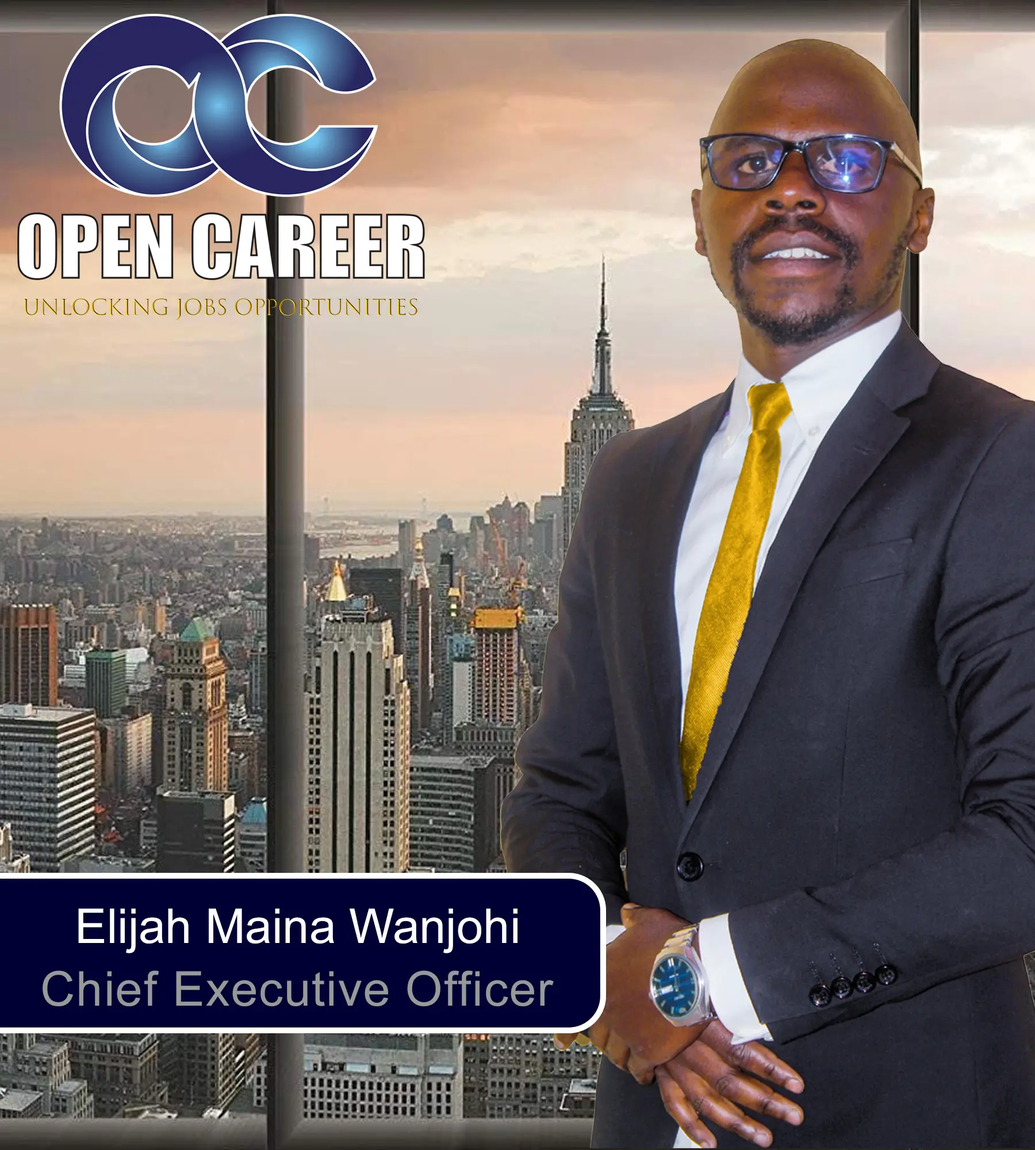
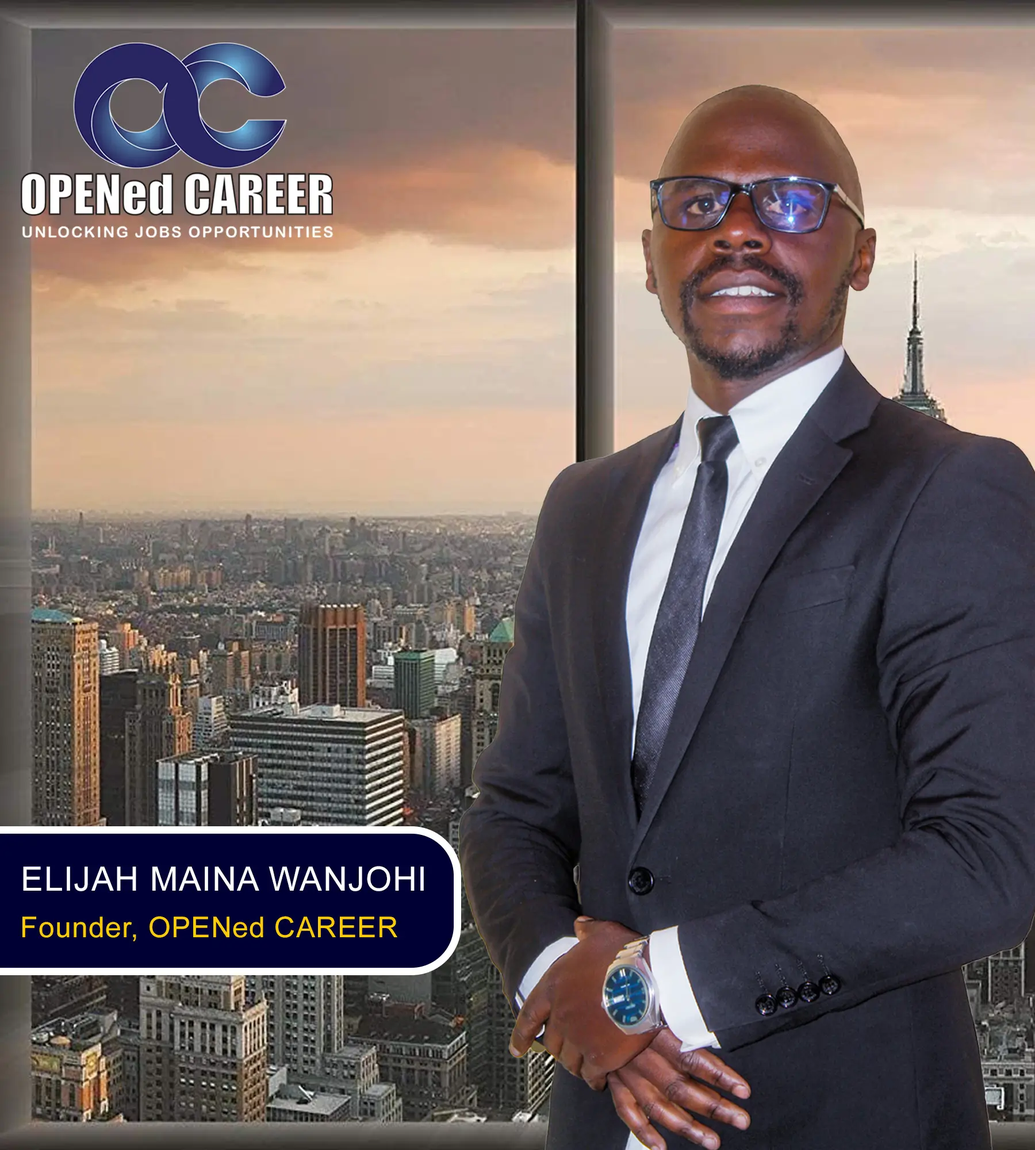
added images, disclaimer page and changed the name

diff --git a/frontend/src/layouts/articles/Post.jsx b/frontend/src/layouts/articles/Post.jsx
@@ -34,12 +34,13 @@ function Post() {
         const currentPageUrl = window.location.href;
 
         // Customize the font
+        const assistTitle = 'OPENed CAREER';
         const boldArticleHeader = `*${articleHeader}*`;
         const assistText = 'Explore more content and requirements by following the link below:';
         const boldAssistText = `*${assistText}*`;
 
         // Encode the article information for the URL
-        const encodedArticle = encodeURIComponent(boldArticleHeader + '\n\n' + articleContent + '\n\n' + boldAssistText + '\n' + currentPageUrl);
+        const encodedArticle = encodeURIComponent(assistTitle + '\n\n' + boldArticleHeader + '\n\n' + articleContent + '\n\n' + boldAssistText + '\n' + currentPageUrl);
 
         // Generate the WhatsApp share URL
         const whatsappUrl = 'https://wa.me/?text=' + encodedArticle;
@@ -52,12 +53,13 @@ function Post() {
         // Get the article header and content
         const articleHeader = document.getElementById('articleHeader').innerText;
         const articleContent = document.getElementById('articleContent').innerText;
+        const assistTitle = 'OPENed CAREER';
 
         // Get the current page URL
         const currentPageUrl = window.location.href;
 
         // Encode the article information for the URL
-        const encodedArticle = encodeURIComponent(articleHeader + '\n\n' + articleContent + '\n\n' + currentPageUrl);
+        const encodedArticle = encodeURIComponent(assistTitle + '\n\n' + articleHeader + '\n\n' + articleContent + '\n\n' + currentPageUrl);
     
         // Generate the Facebook share URL
         const facebookUrl = 'https://www.facebook.com/sharer/sharer.php?u=' + currentPageUrl + '&quote=' + encodedArticle;
@@ -95,7 +97,7 @@ function Post() {
                     <>
                         {article &&  (
                             <div className="max-w-2xl mx-auto mb-12 border-t-4 xl:border-t-0 xl:border-l-4 even:border-gold odd:border-primary py-6 px-8 rounded-3xl shadow-2xl">
-                                <div className="my-2 px-6 py-12 rounded-3xl bg-center bg-cover shadow-2xl relative" style={{backgroundImage: `url(${article.image})`,}} alt="Opportunities Meet Aspirations" title='Kenya Jobs | Open Career'>
+                                <div className="my-2 px-6 py-24 rounded-3xl bg-center bg-cover shadow-2xl relative" style={{backgroundImage: `url(${article.image})`,}} alt="Opportunities Meet Aspirations" title='Kenya Jobs | Opened Career'>
                                     <div className="rounded-3xl absolute top-0 left-0 w-[100%] h-[100%]" style={customStyle2}></div>
                                     <div className="relative z-10">
                                         <h2 id='articleHeader' className="text-whity text-2xl font-semibold">{article.title}</h2>
@@ -161,7 +163,7 @@ function Post() {
             {/* Welcome */}
             <section className="py-8">
                 <div className="max-w-2xl text-whity grad-to-br rounded-3xl py-6 px-6 sm:px-12 shadow-2xl mt-4 xl:mt-0">
-                    <h1 className="text-xl py-4 font-semibold text-center">Welcome to <span className="italic text-whity">Open Career</span></h1>
+                    <h1 className="text-xl py-4 font-semibold text-center">Welcome to <span className="italic text-whity">Opened Career</span></h1>
                 </div>
             </section>
 
@@ -174,7 +176,7 @@ function Post() {
                         </div>
                         <div className="py-4 text-secondary text-justify">
                             <p className="text-sm">
-                                At Open Career, we prioritize inclusivity, diversity, and equal opportunities 
+                                At Opened Career, we prioritize inclusivity, diversity, and equal opportunities 
                                 for all individuals, regardless of their backgrounds or experiences. 
                                 We believe in creating a level playing field where every candidate has the 
                                 chance to showcase their skills and potential, and every employer has access to a 

diff --git a/frontend/src/layouts/landing/Posts.jsx b/frontend/src/layouts/landing/Posts.jsx
@@ -86,12 +86,13 @@ function Posts() {
         const currentPageUrl = window.location.href;
 
         // Customize the font
+        const assistTitle = 'OPENed CAREER';
         const boldArticleHeader = `*${articleHeader}*`;
         const assistText = 'Explore more content and requirements by following the link below:';
         const boldAssistText = `*${assistText}*`;
 
         // Encode the article information for the URL
-        const encodedArticle = encodeURIComponent(boldArticleHeader + '\n\n' + articleContent + '\n\n' + boldAssistText + '\n' + currentPageUrl);
+        const encodedArticle = encodeURIComponent(assistTitle + '\n\n' + boldArticleHeader + '\n\n' + articleContent + '\n\n' + boldAssistText + '\n' + currentPageUrl);
 
         // Generate the WhatsApp share URL
         const whatsappUrl = 'https://wa.me/?text=' + encodedArticle;
@@ -104,12 +105,13 @@ function Posts() {
         // Get the article header and content
         const articleHeader = document.getElementById('articleHeader').innerText;
         const articleContent = document.getElementById('articleContent').innerText;
+        const assistTitle = 'OPENed CAREER';
 
         // Get the current page URL
         const currentPageUrl = window.location.href;
 
         // Encode the article information for the URL
-        const encodedArticle = encodeURIComponent(articleHeader + '\n\n' + articleContent + '\n\n' + currentPageUrl);
+        const encodedArticle = encodeURIComponent(assistTitle + '\n\n' + articleHeader + '\n\n' + articleContent + '\n\n' + currentPageUrl);
     
         // Generate the Facebook share URL
         const facebookUrl = 'https://www.facebook.com/sharer/sharer.php?u=' + currentPageUrl + '&quote=' + encodedArticle;
@@ -152,7 +154,7 @@ function Posts() {
                     {articles.slice().reverse().slice(0, 4).map((article) => (
                         <div className="py-3" key={article.id}>
                             <Link to={`/${article.id}`} onClick={scrollToArticleSection} className="flex items-center space-x-4 shadow-2xl rounded-3xl">
-                                <div className="px-14 py-20 sm:p-20 rounded-s-3xl bg-center bg-cover shadow-2xl" style={{backgroundImage: `url(${article.image})`,}}>
+                                <div className="px-14 py-20 sm:p-20 rounded-s-3xl bg-center bg-cover shadow-2xl" style={{backgroundImage: `url(${article.image})`,}} alt="Opportunities Meet Aspirations" title='Kenya Jobs | Opened Career'>
                                 </div>
                                 <div className="flex flex-col justify-evenly">
                                     <div>
@@ -187,7 +189,7 @@ function Posts() {
                     <>
                         {article && (
                             <div className="max-w-xl mx-auto mb-12 border-t-4 xl:border-t-0 xl:border-l-4 even:border-gold odd:border-primary py-6 px-8 rounded-3xl shadow-2xl">
-                                <div className="my-2 px-6 py-12 rounded-3xl bg-center bg-cover shadow-2xl relative" style={{backgroundImage: `url(${article.image})`,}} alt="Opportunities Meet Aspirations" title='Kenya Jobs | Open Jobs'>
+                                <div className="my-2 px-6 py-24 rounded-3xl bg-center bg-cover shadow-2xl relative" style={{backgroundImage: `url(${article.image})`,}} alt="Opportunities Meet Aspirations" title='Kenya Jobs | Opened Career'>
                                     <div className="rounded-3xl absolute top-0 left-0 w-[100%] h-[100%]" style={customStyle2}></div>
                                     <div className='relative z-10'>
                                         <h2 id='articleHeader' className="text-whity text-2xl font-semibold">{article.title}</h2>

diff --git a/frontend/src/layouts/disclaimer/Header.jsx b/frontend/src/layouts/disclaimer/Header.jsx
@@ -1,0 +1,60 @@
+import React from 'react'
+
+const Header = () => {
+  return (
+    <>
+      <section>
+        <div className="my-4 py-8 grad-to-br rounded-full">
+          <div className="text-center">
+            <h3 className="text-whity font-semibold text-2xl">Disclaimer Page</h3>
+          </div>
+        </div>
+      </section>
+
+      <section className="py-8">
+        <div className="bg-whity rounded-3xl shadow-2xl p-4 sm:px-8">
+          <div>
+            <div className="flex justify-start px-8 md:px-16">
+              <h1 className="-mt-12 text-2xl text-secondary italic py-4 px-6 font-semibold bg-whity rounded-3xl shadow-2xl">Disclaimer</h1>
+            </div>
+
+            <div className="py-4 text-secondary text-justify text-sm md:text-base">
+              <p className="italic py-2">
+                Openedcareer.com is a platform designed to connect job seekers with potential employers. While we strive to provide accurate 
+                and up-to-date information, we do not guarantee the completeness, reliability, or suitability of the job listings, company profiles, 
+                or any other content posted on our website. <br /><br />
+
+                We urge users to exercise caution and conduct their own research before applying for any 
+                job or engaging with any employer listed on Openedcareer.com. We do not endorse any specific employers or job opportunities and 
+                disclaim any liability for any damages or losses incurred as a result of reliance on information provided on our platform. <br /><br />
+                
+                Additionally, Openedcareer.com does not take responsibility for the accuracy or legality of job postings, nor do we verify the identity 
+                of employers or the validity of their offers. Users are advised to verify the legitimacy of any job opportunity and to use their own 
+                judgment when interacting with potential employers. <br /><br />
+                
+                Furthermore, Openedcareer.com is not involved in the actual transaction between employers and job seekers and cannot guarantee the outcome 
+                of any job application or employment arrangement facilitated through our platform. <br /><br />
+                
+                By using Openedcareer.com, users agree to hold harmless and indemnify Openedcareer.com and its affiliates, officers, directors, employees, 
+                and agents from any claims, liabilities, or damages arising from the use of our services. <br /><br />
+                
+                We reserve the right to modify, update, or remove any content on our website without prior notice. Users are encouraged to review our terms 
+                of service and privacy policy regularly for any changes. <br /><br />
+                
+                If you have any concerns about the accuracy or legitimacy of any content on Openedcareer.com, please contact us immediately at [contact email/phone number]. <br /><br />
+                
+                Thank you for using Openedcareer.com. We wish you success in your job search endeavors. <br /><br />
+                
+                <span className='font-semibold'>Message from our CEO</span> <br />
+                It really hurts when seeing young individuals struggling to find job. It’s my prayer that you finds the right job soon
+              </p>
+              
+            </div>
+          </div>
+        </div>
+      </section>
+    </>
+  )
+}
+
+export default Header

diff --git a/frontend/src/layouts/landing/Header.jsx b/frontend/src/layouts/landing/Header.jsx
@@ -1,8 +1,8 @@
 import React, { useState, useEffect  } from 'react';
 import { Link } from 'react-router-dom';
 
-import hero5 from '../../assets/images/hero1.webp'
-import hero1 from '../../assets/images/hero4.webp'
+import hero1 from '../../assets/images/hero-1.webp'
+import hero2 from '../../assets/images/hero-2.webp'
 
 function Header() {
 
@@ -42,8 +42,8 @@ function Header() {
             {/* Left */}
             <div className="flex flex-col space-y-4">
                 <div className="grid grid-cols-2 gap-4">
-                    <div className='py-24 sm:py-36 md:py-48 rounded-3xl shadow-2xl bg-center bg-cover' style={{backgroundImage: `url(${hero5})`}} alt="Opportunities Meet Aspirations" title='Kenya Jobs | Open Career'></div>
-                    <div className='py-24 sm:py-36 md:py-48 rounded-3xl shadow-2xl bg-center bg-cover' style={{backgroundImage: `url(${hero1})`}} alt="Opportunities Meet Aspirations" title='Kenya Jobs | Open Career'></div>
+                    <div className='py-24 sm:py-36 md:py-48 rounded-3xl shadow-2xl bg-center bg-cover' style={{backgroundImage: `url(${hero1})`}} alt="Opportunities Meet Aspirations" title='Kenya Jobs | Opened Career'></div>
+                    <div className='py-24 sm:py-36 md:py-48 rounded-3xl shadow-2xl bg-center bg-cover' style={{backgroundImage: `url(${hero2})`}} alt="Opportunities Meet Aspirations" title='Kenya Jobs | Opened Career'></div>
                 </div>
                 <div className="grad-to-br rounded-3xl py-6 px-6 sm:px-8 shadow-2xl">
                     <p className="text-whity text-sm md:text-base">
@@ -79,7 +79,7 @@ function Header() {
                             {displayedArticles.map((article) => (
                                 <div className="py-1 hover:underline" key={article.id}>
                                     <Link to={`/article/${article.id}`} className="flex items-center justify-start space-x-4">
-                                        <div className="p-12 sm:p-10 rounded-full bg-center bg-cover shadow-2xl transition duration-200 transform hover:scale-110" style={{backgroundImage: `url(${article.image})`,}} alt="Opportunities Meet Aspirations" title='Kenya Jobs | Open Career'>
+                                        <div className="p-12 sm:p-10 rounded-full bg-center bg-cover shadow-2xl transition duration-200 transform hover:scale-110" style={{backgroundImage: `url(${article.image})`,}} alt="Opportunities Meet Aspirations" title='Kenya Jobs | Opened Career'>
                                         </div>
                                         <div className="flex flex-col justify-between">
                                             <h6 className="text-secondary font-semibold text-lg">{article.title}</h6>

diff --git a/frontend/src/layouts/conditions/Header.jsx b/frontend/src/layouts/conditions/Header.jsx
@@ -24,10 +24,10 @@ const Header = () => {
                 <div className='py-2'>
                   <li className='font-medium'>Overview</li>
                   <p className="italic py-2">
-                    These terms and conditions outline the rules and regulations for the use of open Job Website,
-                    located at https://opencareer.com. <br /><br />
+                    These terms and conditions outline the rules and regulations for the use of opened Job Website,
+                    located at https://openedcareer.com. <br /><br />
                     By accessing this website we assume you accept these terms and conditions. Do not continue to
-                    use open career website if you do not agree to take all of the terms and conditions stated on this page.
+                    use opened career website if you do not agree to take all of the terms and conditions stated on this page.
                     Our Terms and Conditions were created with the help of the Terms And Conditions Generator and
                     the Free Terms & Conditions Generator.
                   </p>
@@ -68,7 +68,7 @@ const Header = () => {
                     Override any security feature or bypass or circumvent any access controls or use limits of the
                     Service (such as caps on keyword searches or profile views); <br /><br />
                     Copy, use, disclose or distribute any information obtained from the Services, whether directly or
-                    through third parties (such as search engines), without the consent of open career
+                    through third parties (such as search engines), without the consent of opened career
                   </p>
                 </div>
 
@@ -107,7 +107,7 @@ const Header = () => {
                 <div className='py-2'>
                   <li className='font-medium'>Cancellation Policy</li>
                   <p className="italic py-2">
-                    You are free to cancel your Opencareer.com account at any time. Cancellation requests must be sent
+                    You are free to cancel your Openedcareer.com account at any time. Cancellation requests must be sent
                     via our contact page.
                   </p>
                 </div>

diff --git a/frontend/src/layouts/about/Objectives.jsx b/frontend/src/layouts/about/Objectives.jsx
@@ -10,18 +10,18 @@ function Objectives() {
                 </div>
                 <div className="py-4 text-secondary text-justify">
                     <p className="text-sm md:text-base">
-                        As a newly established platform, Open Career is committed to leveraging the latest technology and
+                        As a newly established platform, Opened Career is committed to leveraging the latest technology and
                         innovative strategies to streamline the recruitment process. We understand the evolving needs of
                         both job seekers and employers in today's fast-paced job market, and we're dedicated to providing
                         a user-friendly, efficient, and transparent platform to meet those needs. <br /><br />
 
-                        At Open Career, we prioritize inclusivity, diversity, and equal opportunities for all individuals,
+                        At Opened Career, we prioritize inclusivity, diversity, and equal opportunities for all individuals,
                         regardless of their backgrounds or experiences. We believe in creating a level playing field where
                         every candidate has the chance to showcase their skills and potential, and every employer has
                         access to a diverse pool of qualified candidates. <br /><br />
 
                         With our state-of-the-art features, including advanced search options, personalized job
-                        recommendations, and seamless application tracking, Open Career aims to empower both job seekers
+                        recommendations, and seamless application tracking, Opened Career aims to empower both job seekers
                         and employers to make informed decisions and find the perfect match. <br /><br />
                         Whether you're a recent graduate eager to kick-start your career
                     </p>

diff --git a/frontend/src/components/Footer.jsx b/frontend/src/components/Footer.jsx
@@ -1,7 +1,7 @@
 import React, { useState, useEffect  } from 'react';
 import { Link } from 'react-router-dom';
 
-import hero3 from '../assets/images/hero3.webp'
+import footerlogo from '../assets/images/logo.webp'
 
 function Footer() {
 
@@ -28,7 +28,7 @@ function Footer() {
             <div className="flex flex-col items-center xl:flex-row xl:justify-between">
                 <div className="mb-6 xl:mb-0">
                     <Link to="/">
-                        <div className='py-24 px-32 rounded-3xl bg-center bg-cover' style={{backgroundImage: `url(${hero3})`}} alt="Footer Logo" title='Kenya Jobs | Open Career' loading='lazy'></div>
+                        <div className='py-24 px-32 rounded-3xl bg-center bg-cover' style={{backgroundImage: `url(${footerlogo})`}} alt="Footer Logo" title='Kenya Jobs | Opened Career' loading='lazy'></div>
                     </Link>
                 </div>
                 <div className="grid grid-cols-2 gap-8 sm:gap-6 sm:grid-cols-3">
@@ -62,6 +62,9 @@ function Footer() {
                     <div>
                         <h2 className="mb-6 text-sm font-semibold text-primary uppercase">Legal</h2>
                         <ul className="text-secondary font-medium">
+                            <li className="mb-4">
+                                <Link to="/disclaimer" className="hover:underline">Disclaimer</Link>
+                            </li>
                             <li className="mb-4">
                                 <Link to="/policy" className="hover:underline">Privacy Policy</Link>
                             </li>

diff --git a/frontend/src/layouts/about/Header.jsx b/frontend/src/layouts/about/Header.jsx
@@ -1,6 +1,6 @@
 import React from 'react'
 
-import hero5 from '../../assets/images/hero5.webp'
+import hero1 from '../../assets/images/hero-1.webp'
 
 function Header() {
   return (
@@ -13,13 +13,13 @@ function Header() {
                     <h2 className="text-3xl md:text-3xl lg:text-5xl py-4">Opportunities Meet Aspirations</h2>
                 </div>
                 <div className="md:col-span-2 z-10 flex justify-center">
-                    <img src={hero5} alt="Open Career Leading Image" className="w-96 rounded-3xl shadow-2xl"/>
+                    <img src={hero1} alt="Opened Career Leading Image" title='Opened Career Leading Image' className="w-96 rounded-3xl shadow-2xl"/>
                 </div>
             </div>
             <div className='max-w-3xl text-whity grad-to-br rounded-3xl py-6 px-6 sm:px-12 shadow-2xl mt-4 xl:mt-0'>
                 <h1 className="text-lg sm:text-2xl py-4 font-semibold">Open Doors to a world of opportunities</h1>
                 <p className="text-sm lg:text-md md:text-justify font-medium">
-                    Open Career, founded in 2024, is a cutting-edge online platform dedicated to revolutionizing the job
+                    Opened Career, founded in 2024, is a cutting-edge online platform dedicated to revolutionizing the job
                     search experience for both candidates and employers. Our mission is to bridge the gap between
                     talented individuals seeking employment opportunities and organizations searching for top-tier
                     talent.

diff --git a/frontend/src/layouts/categories/CategoriesPost.jsx b/frontend/src/layouts/categories/CategoriesPost.jsx
@@ -112,7 +112,7 @@ function CategoriesPost() {
                     {/* Welcome */}
                     <section className="py-8">
                         <div className="max-w-2xl mx-auto text-whity grad-to-br rounded-3xl py-6 px-6 sm:px-12 shadow-2xl mt-4 xl:mt-0">
-                            <h1 className="text-xl py-4 font-semibold text-center">Welcome to <span className="italic text-whity">Open Career</span></h1>
+                            <h1 className="text-xl py-4 font-semibold text-center">Welcome to <span className="italic text-whity">Opened Career</span></h1>
                         </div>
                     </section>
 
@@ -125,7 +125,7 @@ function CategoriesPost() {
                                 </div>
                                 <div className="py-4 text-secondary text-justify">
                                     <p className="text-sm">
-                                      At Open Career, we prioritize inclusivity, diversity, and equal opportunities 
+                                      At Opened Career, we prioritize inclusivity, diversity, and equal opportunities 
                                       for all individuals, regardless of their backgrounds or experiences. 
                                       We believe in creating a level playing field where every candidate has the 
                                       chance to showcase their skills and potential, and every employer has access to a 

diff --git a/frontend/src/components/Contact.jsx b/frontend/src/components/Contact.jsx
@@ -79,7 +79,7 @@ function Contact() {
                 </div>
                 <div className="grid lg:grid-cols-2 gap-8">
                     <div className="flex flex-col text-secondary px-4 sm:px-16 py-8 rounded-3xl shadow-2xl">
-                        <h4 className="text-secondary font-semibold text-xl text-center">Reach Out to <span className="text-primary">Open Career</span></h4>
+                        <h4 className="text-secondary font-semibold text-xl text-center">Reach Out to <span className="text-primary">Opened Career</span></h4>
                         <p className="py-4 text-secondary font-light text-sm text-justify">
                             Looking for something specific? See below for contacts 
                             related to your inquiry. If you don’t find what you need, 
@@ -87,7 +87,7 @@ function Contact() {
                         </p>
                         <p className="py-2 text-primary font-semibold text-sm">GENERAL INQUIRIES</p>
                         <p className="text-secondary font-light text-sm">(+254) 700 000 897</p>
-                        <p className="text-secondary font-light text-sm">opencareer@gmail.com</p>
+                        <p className="text-secondary font-light text-sm">openedcareer@gmail.com</p>
                     </div>
                     <div className="px-4 sm:px-16 py-8 rounded-3xl shadow-2xl">
                         <form onSubmit={handleSubmit}>

diff --git a/frontend/src/App.jsx b/frontend/src/App.jsx
@@ -10,6 +10,7 @@ import Forums from './pages/Forums';
 import Partnerships from './pages/Partnerships';
 import Advice from './pages/Advice';
 import Training from './pages/Training';
+import Disclaimer from './pages/Disclaimer';
 
 function App() {
   return (
@@ -21,6 +22,7 @@ function App() {
             <Route path="/category/:id" element={ <Category /> } />
             <Route path="/article/:id" element={ <Article /> } />
             <Route path="/about" element={ <About /> } />
+            <Route path="/disclaimer" element={ <Disclaimer /> } />
             <Route path="/policy" element={ <PrivacyPolicy /> } />
             <Route path="/conditions" element={ <TermsConditions /> } />
             <Route path="/forums" element={ <Forums /> } />

diff --git a/frontend/src/layouts/about/CEO.jsx b/frontend/src/layouts/about/CEO.jsx
@@ -7,7 +7,7 @@ function CEO() {
         <div className="py-16">
             <div className="flex flex-col lg:flex-row justify-center items-center space-y-4 lg:space-y-0">
                 <div className="lg:-mx-8 z-10">
-                    <img src={ceo} alt="Open Jobs Leading Image" title='Open Career CEO' className="w-72 sm:w-96 rounded-3xl shadow-2xl"/>
+                    <img src={ceo} alt="Opened Jobs Leading Image" title='Opened Career CEO' className="w-72 sm:w-96 rounded-3xl shadow-2xl"/>
                 </div>
                 <div className="flex flex-col max-w-xl text-whity grad-to-br rounded-3xl py-8 px-6 md:px-16 shadow-2xl z-20">
                     <div className="flex justify-center">
